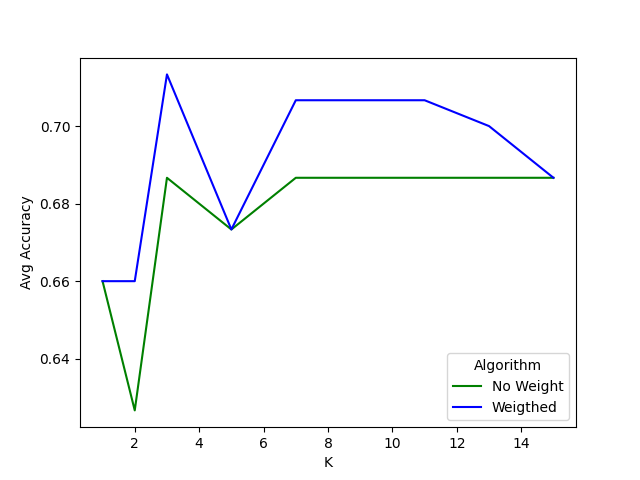
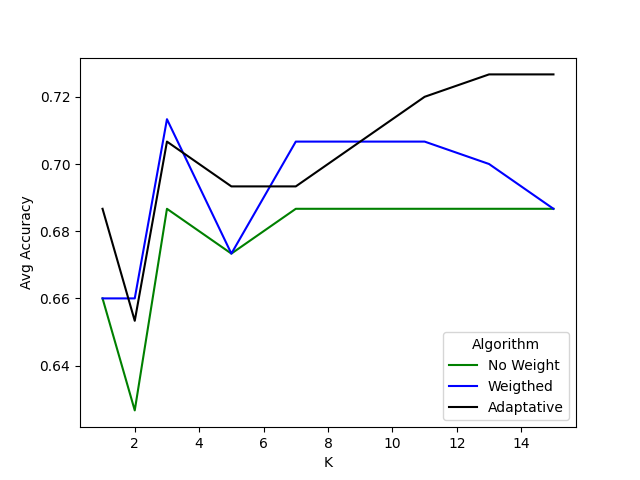
Adaptative knn

diff --git a/Lista1/adaptative_knn.py b/Lista1/adaptative_knn.py
@@ -1,0 +1,97 @@
+import numpy as np
+from sklearn.neighbors import KNeighborsClassifier
+from sklearn.metrics import classification_report, confusion_matrix
+
+k = 5
+
+x_training = []
+y_training = []
+adaptive_v = []
+
+def dist(alfa, beta):
+    return np.sqrt(np.sum((alfa-beta)**2))
+
+def train(x_train, y_train):
+    global x_training, y_training, adaptive_v
+    x_training = x_train
+    y_training = y_train
+
+    adaptive_v = np.zeros([len(x_train)]) 
+    for i in range(x_train.shape[0]):
+        min_rad = 999999
+        for j in range(x_train.shape[0]):
+            if i == j or y_train[i] == y_train[j]:
+                continue
+            rad = dist(x_train[i], x_train[j])
+            if rad < min_rad:
+                min_rad = rad
+        adaptive_v[i] = min_rad * 0.99999
+
+def get_pred_class(dist):
+        dist = dist / (adaptive_v + 1e-5)
+        min_index = dist.argsort()[:k]
+        cand_class = y_training[min_index]
+        unique, freq = np.unique(cand_class, return_counts=True)
+        return unique[freq.argmax()]
+            
+def predict_one(test_instance):
+    dists = np.empty(len(y_training))
+    for idx, instance in enumerate(x_training):
+        dists[idx] = dist(test_instance, instance)
+
+    return get_pred_class(dists)
+
+def contains_ignore_case(source, verific):
+    return verific.lower() in source.lower()
+
+def predict(x_test, y_test):
+    pred = []
+    for test_instance in x_test:
+        pred.append(predict_one(test_instance))
+    
+    i = 0
+    total_correct = int(0)
+    true_positives = int(0)
+    true_negatives = int(0)
+    false_positives = int(0)
+    false_negatives = int(0)
+    for y in y_test:
+        predicted = str(pred[i])
+        correct = str(y)
+        if correct == predicted:
+            total_correct = total_correct + 1
+
+        if contains_ignore_case(predicted, "true") and contains_ignore_case(correct, "true"):
+            true_positives = true_positives + 1
+
+        if contains_ignore_case(predicted, "true") and contains_ignore_case(correct, "false"):
+            false_positives = false_positives + 1
+
+        if contains_ignore_case(predicted, "false") and contains_ignore_case(correct, "false"):
+            true_negatives = true_negatives + 1
+
+        if contains_ignore_case(predicted, "false") and contains_ignore_case(correct, "true"):
+            false_negatives = false_negatives + 1
+
+        i = i + 1
+    
+    positives_precision = 0 
+    if true_positives + false_negatives != 0:
+        positives_precision = true_positives / (true_positives + false_negatives)
+    
+    negatives_precision = 0
+    if true_negatives + false_positives != 0:
+        negatives_precision = true_negatives / (true_negatives + false_positives)
+
+    report = {}
+    report['accuracy'] = total_correct/len(y_test)
+    report['true positives'] = true_positives
+    report['true negatives'] = true_negatives
+    report['false positives'] = false_positives
+    report['false negatives'] = false_negatives
+    report['positives precision'] = positives_precision
+    report['negatives precision'] = negatives_precision
+
+    matrix = str(true_positives) + " " + str(false_positives) + "\n" + str(true_negatives) + " " + str(false_negatives)
+
+    return matrix, report

diff --git a/Lista1/plotResults.py b/Lista1/plotResults.py
@@ -1,15 +1,17 @@
 import knn_no_weight
 import knn_weight
+import adaptative_knn
 import seaborn as sns
 import pandas as pd
 import matplotlib.pyplot as plt
 import k_fold_cross_validation as cv
 
-algorithms = (cv.no_weight, cv.weighted)
+algorithms = (cv.no_weight, cv.weighted, cv.adaptative)
 ks = cv.ks
 
 cv.train_and_get_reports(algorithms[0], 1, knn_no_weight)
 cv.train_and_get_reports(algorithms[1], 1, knn_weight)
+cv.train_and_get_reports(algorithms[2], 1, adaptative_knn)
 reports_avg = cv.process_reports()
 
 algorithms_order = []
@@ -30,5 +32,5 @@ data = {
 df = pd.DataFrame(data, columns = ['K', 'Algorithm', 'Avg Accuracy'])
 
 plt.figure()
-sns.lineplot(x="K", y="Avg Accuracy", hue="Algorithm", palette=["green", "blue"], data=df)
+sns.lineplot(x="K", y="Avg Accuracy", hue="Algorithm", palette=["green", "blue", "black"], data=df)
 plt.savefig('graphs/accuracy.png')

diff --git a/Lista1/k_fold_cross_validation.py b/Lista1/k_fold_cross_validation.py
@@ -3,6 +3,7 @@ import matplotlib.pyplot as plt
 import pandas as pd
 import knn_no_weight
 import knn_weight
+import adaptative_knn
 import math
 import json
 from sklearn.neighbors import KNeighborsClassifier
@@ -11,6 +12,7 @@ from dataset_reader import get_dataset, number_of_attributes
 
 no_weight = "No Weight"
 weighted = "Weigthed"
+adaptative = "Adaptative"
 
 k_fold = 10
 
@@ -85,6 +87,7 @@ def process_reports():
 if __name__ == '__main__':
     train_and_get_reports(no_weight, 1, knn_no_weight)
     train_and_get_reports(weighted, 1, knn_weight)
+    train_and_get_reports(adaptative, 1, adaptative_knn)
     reports_avg = process_reports()
 
     for knn_alg in reports_avg.keys():
